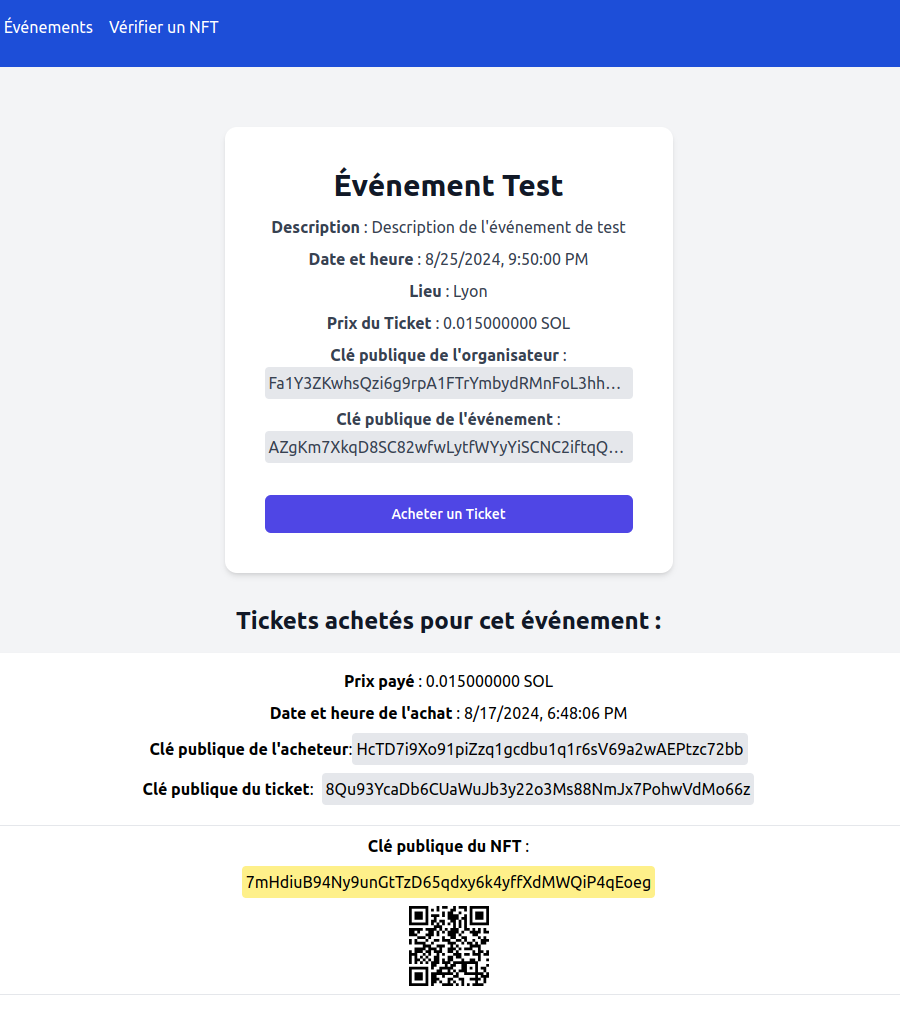
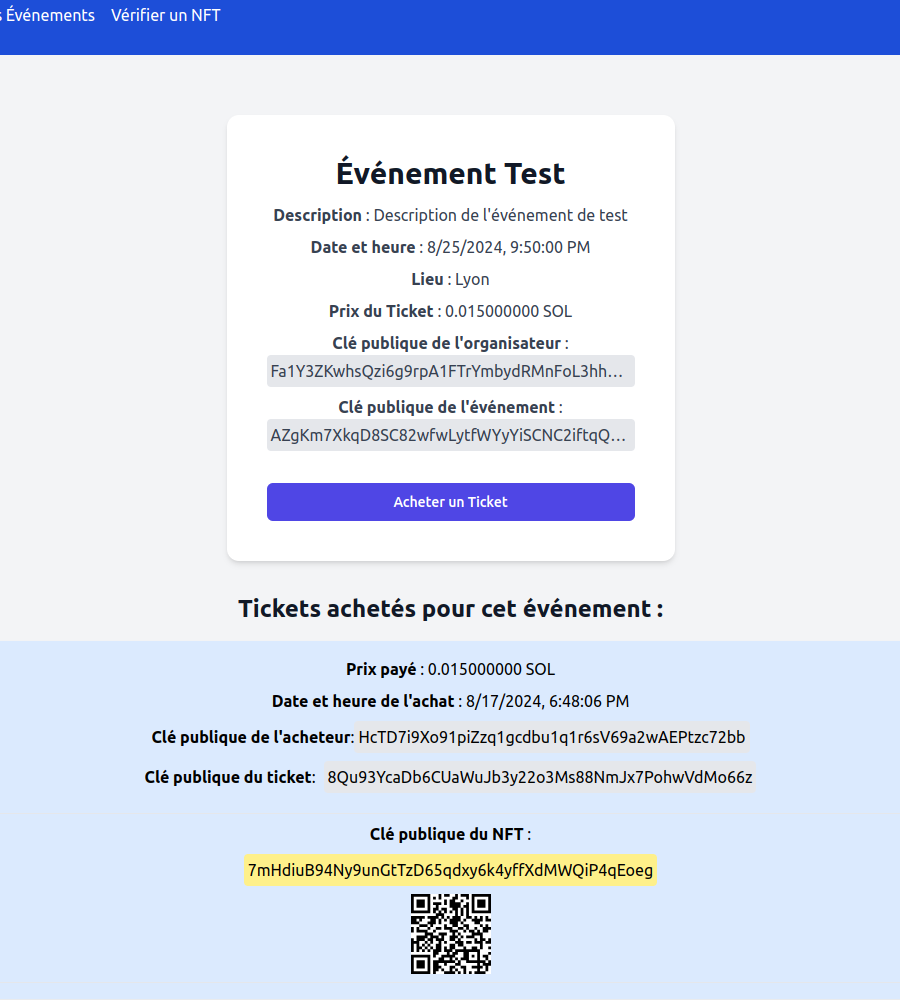
README.md

diff --git a/app/front/app/show-event/[eventPublicKey]/page.tsx b/app/front/app/show-event/[eventPublicKey]/page.tsx
@@ -120,7 +120,7 @@ const ShowEvent: React.FC = () => {
                     <h3 className="text-center text-2xl font-extrabold text-gray-900">Tickets achetés pour cet événement :</h3>
                     <ul>
                         {tickets.map((ticket, index) => (
-                            <li key={index} className="mt-4 p-4 bg-white rounded-md shadow-sm">
+                            <li key={index} className="mt-4 p-4 bg-blue-100 rounded-md shadow-sm">
                                 <p className="mb-2">
                                     <b>Prix payé</b> : {(ticket.account.price.toNumber() / 1_000_000_000).toFixed(9)} SOL
                                 </p>

diff --git a/README.md b/README.md
@@ -28,7 +28,7 @@ NFT Marketplace Event Ticketing - A decentralized application for managing and v
 
 **Status**: Under development 🚧
 
-<img src="./img/img-2.png" style="border: 2px solid black;" />
+![Img](./img/img-2.png)
 
 
 ## Prerequisites
